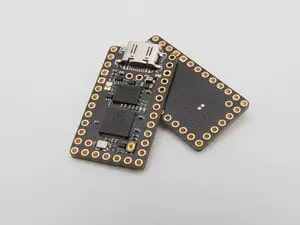
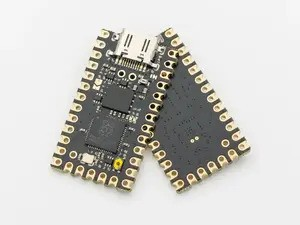
add 0xCB Gemini and update Helios Img

diff --git a/_board/0xcb_gemini.md b/_board/0xcb_gemini.md
@@ -1,0 +1,34 @@
+---
+layout: download
+board_id: "0xcb_gemini"
+title: "0xCB Gemini Download"
+name: "Gemini"
+manufacturer: "0xCB"
+board_url:
+ - "https://github.com/0xCB-dev/0xCB-Gemini"
+board_image: "0xcb_gemini.jpg"
+date_added: 2024-11-11
+family: raspberrypi
+features:
+  - USB-C
+  - Breadboard-Friendly
+---
+
+The 0xCB Gemini is our Waveshare RP2040-Zero compatible microcontroller. It includes all the features of it's bigger brother, the [0xCB Helios](https://circuitpython.org/board/0xcb_helios/), in a much smaller form factor.
+
+## Technical details
+
+- **Powerful RP2040** 32-bit Cortex M0+ dual core running at 133 MHz and 264kB SRAM.
+- **16MB/128Mb QSPI FLASH** chip for storing files and code
+- 3.3V 500mA LDO, PTC fuse and **ESD protection** chip
+- 4 pins configurable as **analog inputs**
+- GPIO16 is level shifted to 5v to drive the **onboard aRGB LED** (DIO is connected to GP16)
+- **USB VBUS detection** on GPIO19 for split keyboard side detection
+- **UF2 bootloader** for drag & drop programming via your file manager
+- easy to use **Single button boot and reset circuit** push to reset and hold >500ms to enter bootloader
+- 4 pads for use with an external USB socket/daughterboard
+- **USB-C connector** lets you access built-in ROM USB bootloader and serial port debugging
+
+## Purchase
+
+- [KeebSupply](https://keeb.supply/products/0xcb-gemini)
